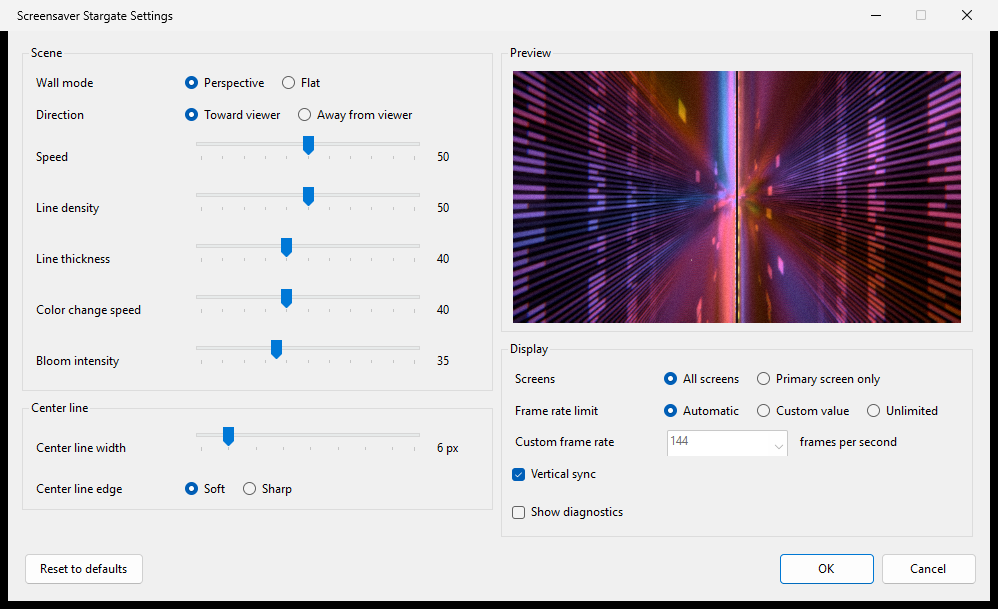
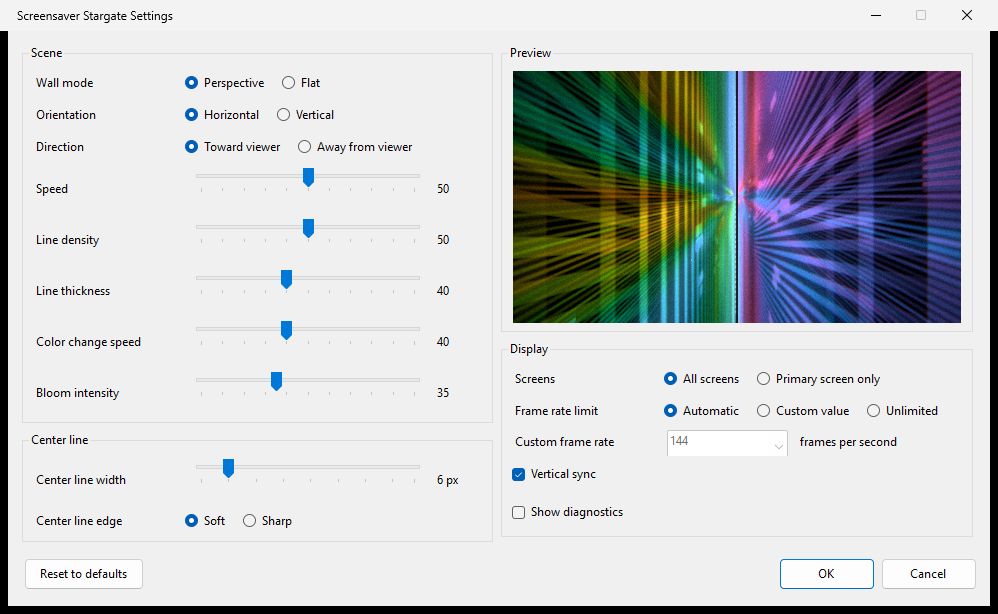
Add scroll orientation setting, film-accurate README images and memory results
Vertical orientation puts the walls above and below with a horizontal center line. README images are rendered at native size by the current version so the film grain is visible; adds a UI Automation check of settings persistence.

diff --git a/src/SettingsForm.cs b/src/SettingsForm.cs
@@ -17,6 +17,7 @@ internal sealed class SettingsForm : Form
 
     readonly RadioButton _perspective = Radio("Perspective"), _flat = Radio("Flat");
     readonly RadioButton _toward = Radio("Toward viewer"), _away = Radio("Away from viewer");
+    readonly RadioButton _horizontal = Radio("Horizontal"), _vertical = Radio("Vertical");
     readonly RadioButton _soft = Radio("Soft"), _sharp = Radio("Sharp");
     readonly RadioButton _allScreens = Radio("All screens"), _primaryOnly = Radio("Primary screen only");
     readonly RadioButton _fpsAuto = Radio("Automatic"), _fpsCustom = Radio("Custom value"), _fpsUnlimited = Radio("Unlimited");
@@ -87,6 +88,7 @@ internal sealed class SettingsForm : Form
     {
         var grid = Grid();
         AddChoice(grid, "Wall mode", _perspective, _flat);
+        AddChoice(grid, "Orientation", _horizontal, _vertical);
         AddChoice(grid, "Direction", _toward, _away);
         (_speed, _speedValue) = AddSlider(grid, "Speed", 0, 100);
         (_density, _densityValue) = AddSlider(grid, "Line density", 0, 100);
@@ -95,8 +97,10 @@ internal sealed class SettingsForm : Form
         (_bloom, _bloomValue) = AddSlider(grid, "Bloom intensity", 0, 100);
         _tips.SetToolTip(_perspective, "Two walls of lines converging to a vanishing point at the center.");
         _tips.SetToolTip(_flat, "Parallel horizontal lines scrolling sideways, without perspective.");
-        _tips.SetToolTip(_toward, "Lines stream from the center toward the screen edges.");
-        _tips.SetToolTip(_away, "Lines stream from the screen edges toward the center.");
+        _tips.SetToolTip(_horizontal, "Walls on the left and right, light streaming sideways, vertical center line.");
+        _tips.SetToolTip(_vertical, "Walls above and below, light streaming up and down, horizontal center line.");
+        _tips.SetToolTip(_toward, "Light streams from the center line toward the screen edges.");
+        _tips.SetToolTip(_away, "Light streams from the screen edges toward the center line.");
         _tips.SetToolTip(_bloom, "Glow around the lines. 0 turns the glow off.");
         _tips.SetToolTip(_colorSpeed, "How fast the colors fade into new colors. 0 keeps the colors fixed along the lines.");
         return Group("Scene", grid);
@@ -408,6 +412,7 @@ internal sealed class SettingsForm : Form
         var s = _working;
         (s.WallMode == WallMode.Perspective ? _perspective : _flat).Checked = true;
         (s.Direction == ScrollDirection.TowardViewer ? _toward : _away).Checked = true;
+        (s.Orientation == ScrollOrientation.Horizontal ? _horizontal : _vertical).Checked = true;
         (s.CenterLineEdge == CenterLineEdge.Soft ? _soft : _sharp).Checked = true;
         (s.Screens == ScreenSelection.AllScreens ? _allScreens : _primaryOnly).Checked = true;
         (s.FrameRateLimit switch
@@ -442,6 +447,7 @@ internal sealed class SettingsForm : Form
         var s = _working;
         s.WallMode = _perspective.Checked ? WallMode.Perspective : WallMode.Flat;
         s.Direction = _toward.Checked ? ScrollDirection.TowardViewer : ScrollDirection.AwayFromViewer;
+        s.Orientation = _horizontal.Checked ? ScrollOrientation.Horizontal : ScrollOrientation.Vertical;
         s.CenterLineEdge = _soft.Checked ? CenterLineEdge.Soft : CenterLineEdge.Sharp;
         s.Screens = _allScreens.Checked ? ScreenSelection.AllScreens : ScreenSelection.PrimaryOnly;
         s.FrameRateLimit = _fpsCustom.Checked ? FrameRateLimit.Custom : _fpsUnlimited.Checked ? FrameRateLimit.Unlimited : FrameRateLimit.Automatic;

diff --git a/src/SceneRenderer.cs b/src/SceneRenderer.cs
@@ -8,6 +8,7 @@ internal struct FrameParams
 {
     public int Width, Height;
     public WallMode Mode;
+    public bool Vertical;
     public float Scroll, ColorPhase;
     /// <summary>Seconds of simulated time, wrapped, for grain, gate weave and flicker.</summary>
     public float Time;
@@ -26,6 +27,7 @@ internal struct FrameParams
             Width = width,
             Height = height,
             Mode = s.WallMode,
+            Vertical = s.Orientation == ScrollOrientation.Vertical,
             Seed = seed,
             Density = s.WallMode == WallMode.Perspective ? 6f + 34f * density : 5f + 35f * density,
             Thickness = 0.08f + 0.77f * (s.LineThickness / 100f),
@@ -63,10 +65,10 @@ internal sealed class SceneRenderer : IDisposable
     int _outTex, _outFbo, _outW, _outH;
 
     // Uniform locations.
-    readonly int _sRes, _sMode, _sScroll, _sColor, _sDensity, _sThickness, _sSeed;
+    readonly int _sRes, _sVertical, _sMode, _sScroll, _sColor, _sDensity, _sThickness, _sSeed;
     readonly int _dSrc, _dHalf, _dPrefilter, _dThreshold;
     readonly int _uSrc, _uAdd, _uHalf, _uSpread;
-    readonly int _cScene, _cBloom, _cFont, _cRes, _cBloomStrength, _cLineHalf, _cLineSoft, _cDiag, _cTextScale, _cText, _cTime, _cFilmScale;
+    readonly int _cScene, _cBloom, _cFont, _cRes, _cBloomStrength, _cLineHalf, _cLineSoft, _cDiag, _cTextScale, _cText, _cTime, _cFilmScale, _cVertical;
 
     public SceneRenderer()
     {
@@ -78,6 +80,7 @@ internal sealed class SceneRenderer : IDisposable
 
         _sRes = GL.GetUniformLocation(_sceneProg, "uRes");
         _sMode = GL.GetUniformLocation(_sceneProg, "uMode");
+        _sVertical = GL.GetUniformLocation(_sceneProg, "uVertical");
         _sScroll = GL.GetUniformLocation(_sceneProg, "uScroll");
         _sColor = GL.GetUniformLocation(_sceneProg, "uColorPhase");
         _sDensity = GL.GetUniformLocation(_sceneProg, "uDensity");
@@ -106,6 +109,7 @@ internal sealed class SceneRenderer : IDisposable
         _cText = GL.GetUniformLocation(_compProg, "uText");
         _cTime = GL.GetUniformLocation(_compProg, "uTime");
         _cFilmScale = GL.GetUniformLocation(_compProg, "uFilmScale");
+        _cVertical = GL.GetUniformLocation(_compProg, "uVertical");
 
         _vao = GL.GenVertexArray();
 
@@ -144,6 +148,7 @@ internal sealed class SceneRenderer : IDisposable
         GL.UseProgram(_sceneProg);
         GL.Uniform2(_sRes, (float)_width, (float)_height);
         GL.Uniform1(_sMode, p.Mode == WallMode.Perspective ? 0 : 1);
+        GL.Uniform1(_sVertical, p.Vertical ? 1 : 0);
         GL.Uniform1(_sScroll, p.Scroll);
         GL.Uniform1(_sColor, p.ColorPhase);
         GL.Uniform1(_sDensity, p.Density);
@@ -221,6 +226,7 @@ internal sealed class SceneRenderer : IDisposable
         GL.Uniform1(_cTextScale, (float)Math.Max(1, _height / 540));
         GL.Uniform1(_cTime, p.Time);
         GL.Uniform1(_cFilmScale, Math.Max(0.5f, _height / 1080f));
+        GL.Uniform1(_cVertical, p.Vertical ? 1 : 0);
         GL.DrawArrays(PrimitiveType.Triangles, 0, 3);
         GL.ActiveTexture(TextureUnit.Texture0);
     }

diff --git a/src/CommandLine.cs b/src/CommandLine.cs
@@ -4,7 +4,7 @@ internal enum LaunchAction { Configure, Screensaver, Preview, Windowed }
 
 /// <summary>
 /// Parses the Windows screensaver protocol (/s, /c[:hwnd], /p hwnd) and the
-/// development options (--windowed, --size, --screenshot, --seed, --diag, --mode, --ui-scale).
+/// development options (--windowed, --size, --screenshot, --seed, --diag, --mode, --orientation, --ui-scale).
 /// </summary>
 internal sealed class CommandLine
 {
@@ -15,6 +15,7 @@ internal sealed class CommandLine
     public uint? Seed;
     public bool Diagnostics;
     public WallMode? Mode;
+    public ScrollOrientation? Orientation;
     public int UiScalePercent = 100;
 
     public const string Usage =
@@ -29,6 +30,7 @@ internal sealed class CommandLine
         "  --seed n           Fixed random seed for a reproducible scene.\n" +
         "  --diag             Show the diagnostics overlay.\n" +
         "  --mode perspective|flat  Override the wall mode for this run.\n" +
+        "  --orientation horizontal|vertical  Override the scroll orientation for this run.\n" +
         "  --ui-scale percent Emulate a display scale for the settings window (100, 125, 150).";
 
     public static CommandLine Parse(string[] args)
@@ -68,6 +70,15 @@ internal sealed class CommandLine
                             "perspective" => WallMode.Perspective,
                             "flat" => WallMode.Flat,
                             _ => throw new ArgumentException($"--mode expects perspective or flat, got \"{mode}\"."),
+                        };
+                        break;
+                    case "--orientation":
+                        string orientation = Next(args, ref i, arg).ToLowerInvariant();
+                        cl.Orientation = orientation switch
+                        {
+                            "horizontal" => ScrollOrientation.Horizontal,
+                            "vertical" => ScrollOrientation.Vertical,
+                            _ => throw new ArgumentException($"--orientation expects horizontal or vertical, got \"{orientation}\"."),
                         };
                         break;
                     case "--ui-scale":

diff --git a/src/Settings.cs b/src/Settings.cs
@@ -6,6 +6,7 @@ namespace ScreensaverStargate;
 public enum WallMode { Perspective, Flat }
 public enum CenterLineEdge { Soft, Sharp }
 public enum ScrollDirection { TowardViewer, AwayFromViewer }
+public enum ScrollOrientation { Horizontal, Vertical }
 public enum ScreenSelection { AllScreens, PrimaryOnly }
 public enum FrameRateLimit { Automatic, Custom, Unlimited }
 
@@ -29,6 +30,8 @@ public sealed class Settings
     public int CenterLineWidth { get; set; } = 6;
     public CenterLineEdge CenterLineEdge { get; set; } = CenterLineEdge.Soft;
     public ScrollDirection Direction { get; set; } = ScrollDirection.TowardViewer;
+    /// <summary>Horizontal: walls left and right, vertical center line. Vertical: walls above and below.</summary>
+    public ScrollOrientation Orientation { get; set; } = ScrollOrientation.Horizontal;
     public ScreenSelection Screens { get; set; } = ScreenSelection.AllScreens;
     public FrameRateLimit FrameRateLimit { get; set; } = FrameRateLimit.Automatic;
     public int CustomFrameRate { get; set; } = 144;
@@ -99,6 +102,7 @@ public sealed class Settings
         if (!Enum.IsDefined(WallMode)) WallMode = WallMode.Perspective;
         if (!Enum.IsDefined(CenterLineEdge)) CenterLineEdge = CenterLineEdge.Soft;
         if (!Enum.IsDefined(Direction)) Direction = ScrollDirection.TowardViewer;
+        if (!Enum.IsDefined(Orientation)) Orientation = ScrollOrientation.Horizontal;
         if (!Enum.IsDefined(Screens)) Screens = ScreenSelection.AllScreens;
         if (!Enum.IsDefined(FrameRateLimit)) FrameRateLimit = FrameRateLimit.Automatic;
     }

diff --git a/src/Program.cs b/src/Program.cs
@@ -26,6 +26,8 @@ internal static class Program
         var settings = Settings.Load();
         if (cl.Mode.HasValue)
             settings.WallMode = cl.Mode.Value;
+        if (cl.Orientation.HasValue)
+            settings.Orientation = cl.Orientation.Value;
         uint seed = cl.Seed ?? (uint)(Environment.TickCount64 ^ ((long)Environment.ProcessId << 16));
 
         return cl.Action switch

diff --git a/README.md b/README.md
@@ -1,8 +1,16 @@
 # Screensaver Stargate
 
-A native Windows screensaver inspired by the Star Gate sequence at the end of *2001: A Space Odyssey*: two walls of neon light streaming out of a bright seam in the middle of the screen, split by a thin black vertical line. Everything is drawn in real time by OpenGL shaders, with a film treatment (grain, gate weave, halation, softness) so the picture feels like projected film rather than clean vector graphics.
+A native Windows screensaver inspired by the Star Gate sequence at the end of *2001: A Space Odyssey*: two walls of neon light streaming out of a bright seam in the middle of the screen, split by a thin black line. The walls stand left and right (horizontal scrolling, vertical center line) or above and below (vertical scrolling, horizontal center line). Everything is drawn in real time by OpenGL shaders, with a film treatment (grain, gate weave, halation, softness, dust) so the picture feels like projected film rather than clean vector graphics.
 
-![Perspective mode, 3440 x 1440](docs/screenshots/perspective-3440x1440.jpg)
+![Perspective mode, horizontal orientation, rendered at 1920 x 1080 by the current version](docs/screenshots/hero-perspective-1920x1080.jpg)
+
+Detail at 100% (one image pixel per screen pixel), showing the film grain, the softness, the red halation and the slightly irregular lines:
+
+![Film treatment detail at 1:1](docs/screenshots/detail-film-1x.png)
+
+Vertical orientation, walls above and below:
+
+![Perspective mode, vertical orientation](docs/screenshots/hero-perspective-vertical-1920x1080.jpg)
 
 ## Requirements
 
@@ -36,7 +44,8 @@ Open them from the Windows screen saver dialog (**Settings...**), by right-click
 | Setting | Effect |
 | --- | --- |
 | Wall mode | **Perspective**: two walls converging to a vanishing point. **Flat**: the same walls seen straight on, scrolling sideways. |
-| Direction | **Toward viewer**: light streams from the center to the edges. **Away from viewer**: the reverse. |
+| Orientation | **Horizontal**: walls on the left and right, light streaming sideways, vertical center line. **Vertical**: walls above and below, light streaming up and down, horizontal center line. |
+| Direction | **Toward viewer**: light streams from the center line to the edges. **Away from viewer**: the reverse. |
 | Speed | Scroll speed, 0 to 100. |
 | Line density | Number of lines on each wall. |
 | Line thickness | Width of the lines relative to their spacing. |
@@ -75,18 +84,20 @@ These are not part of the Windows protocol.
 | `--seed n` | Fixed random seed, for reproducible pictures. |
 | `--diag` | Diagnostics overlay (also available as a setting). In full screen the overlay cannot be captured by screen capture tools (the window is presented directly), so the last values are also written to `log.txt` when the screensaver closes. |
 | `--mode perspective\|flat` | Overrides the wall mode for this run. |
+| `--orientation horizontal\|vertical` | Overrides the scroll orientation for this run. |
 | `--ui-scale 125` | Emulates a display scale for the settings window (fonts and layout), to check 125% and 150% on a 100% screen. |
 
 Starting a `.scr` through the Windows shell always runs `/S`, so the test scripts use `publish\ScreensaverStargate.exe`, which is the same binary.
 
 Scripts in `tools\`:
 
-- `capture-scenes.ps1`: screenshots of both modes at 1920x1080, 2560x1440, 2560x1080 and 3440x1440.
-- `measure-center-line.ps1`: measures the center line position and width in screenshots, to sub-pixel precision.
+- `capture-scenes.ps1`: screenshots of both modes at 1920x1080, 2560x1440, 2560x1080 and 3440x1440 (`-Orientation vertical` for the other orientation).
+- `measure-center-line.ps1`: measures the center line position and width in screenshots, to sub-pixel precision (`-Horizontal` for the vertical orientation).
 - `capture-window.ps1`: captures the program's own window (never the rest of the desktop).
 - `test-screensaver.ps1`: `/s` checks (single instance, key, click, mouse threshold). Covers the screen for a few seconds per step.
 - `test-preview.ps1`: `/p` check with a test parent window.
 - `test-settings.ps1`: damaged settings file, invalid values and frame rate options. Backs up and restores `settings.json`.
+- `test-settings-ui.ps1`: drives the settings window with UI Automation (selects options, checks that the preview changes, OK, reopens, checks that they were saved and loaded).
 - `memory-test.ps1`: long run with memory samples every minute.
 
 ## How it works
@@ -95,6 +106,7 @@ Scripts in `tools\`:
 - **Bloom**: bright pass and dual Kawase blur over up to six half-resolution levels (R11G11B10 float), added back with a warm halation component.
 - **Film treatment**: gate weave (about one pixel of drift), slight lens softness and chromatic aberration, lamp flicker, luminance grain and occasional dust specks, all changing at 24 film frames per second and sized relative to the screen height.
 - **Center line**: drawn last, over the walls, the glow and the film effects, from the exact window center, with width proportional to the height.
+- **Orientation**: the vertical orientation swaps the two screen axes in the scene shader and draws the center line horizontally; everything else is shared.
 - **Aspect ratio**: all coordinates are normalized by the window height, so a 21:9 screen shows a wider field (more of each wall) instead of a stretched picture.
 - **Timing**: motion comes from a fixed 240 Hz simulation step fed with the measured frame time (capped at 250 ms), and the renderer interpolates between the last two steps. Nothing depends on a frame count or an assumed refresh rate. Display pacing comes from vertical sync, or from a high resolution waitable timer when a frame rate cap applies. With vertical sync on, a safety cap at 1.25 times the refresh rate stops the loop from spinning if the driver stops blocking (for example while the displays sleep); it never engages while vertical sync works.
 - **Threads**: every window has its own render thread and WGL context, so each screen follows its own vertical sync. The UI thread only handles input and window messages.
@@ -108,14 +120,29 @@ Measured on this development machine: Windows 11, one 3440x1440 screen at 360 Hz
 - **Frame times** (diagnostics mode): full screen 3440x1440 at 360 Hz with vertical sync, average 2.80 ms, worst 1% 2.95 ms. Frame rate caps: custom 144 gives 6.94 ms, custom 60 gives 16.67 ms. With vertical sync off and Unlimited, the driver confirms swap interval 0 but frames stay paced at 360 Hz on this machine, which points to the Windows compositor or a driver setting (for example forced vertical sync or a frame limiter in the NVIDIA control panel) rather than the program.
 - **CPU**: one render thread uses about 41% of one core at 360 FPS (the driver waits actively on each swap), 24% at 144 FPS and 6% at 60 FPS. Use a custom frame rate to save power.
 - **Memory**: see the table below.
-- **Screenshots**: both modes at 1920x1080, 2560x1440, 2560x1080 and 3440x1440 are in `docs\screenshots`. Center line measured with `measure-center-line.ps1`: centered within 0.15 pixel at every size, width 6.3 px at 1080 and 8.3 px at 1440 for a 6 px setting (the target is 6 and 8; the small excess comes from the soft edge and the glow gradient).
+- **Screenshots**: both modes and both orientations at 1920x1080, 2560x1440, 2560x1080 and 3440x1440 are in `docs\screenshots`. Center line measured with `measure-center-line.ps1`: in the horizontal orientation, centered within 0.15 pixel at every size, width 6.3 px at 1080 and 8.3 px at 1440 for a 6 px setting (targets 6 and 8; the small excess comes from the soft edge and the glow gradient), Sharp edge within 0.12 pixel. In the vertical orientation, flat mode is centered within 0.26 pixel with the same widths; in perspective the measurement reads 0.4 to 0.6 pixel off, which is the bias of the method on the steep and asymmetric glow of the horizon (the line itself is computed at exactly half the height).
 - **Settings window**: checked at 100%, 125% and 150% with `--ui-scale` (no truncation or overlap). The real Windows scaling was not changed during development; please confirm on a screen set to 125% or 150%.
 - **Protocol**: `/s` (single instance, key, click, mouse threshold with a 3 px move ignored), `/p` in a test parent window (child created, exits when the parent closes), `/c` and no argument.
+- **Settings persistence**: `test-settings-ui.ps1` selects Flat and Vertical, sees the preview change, clicks OK, and finds both saved in `settings.json` and selected again when the window reopens.
 - **Not verified here**: several physical screens (only one was available; the code creates one window, seed, context and render thread per screen), a real 125% or 150% Windows scale, and an integrated GPU at 3440x1440.
 
 ### Memory over 30 minutes
 
-MEMORY_TABLE
+`tools\memory-test.ps1`, scene in a 1920x1080 window with diagnostics at 360 FPS (vertical sync), sampled every minute. Private bytes, working set, handles and threads of the process; the managed allocation figures come from the diagnostics log line written every minute.
+
+| Minute | Private (MB) | Working set (MB) | Handles | Threads |
+| --- | --- | --- | --- | --- |
+| 0 | 173.9 | 169.1 | 478 | 19 |
+| 3 | 151.0 | 166.4 | 472 | 12 |
+| 5 | 151.8 | 166.7 | 472 | 13 |
+| 10 | 152.5 | 167.4 | 472 | 13 |
+| 15 | 151.6 | 167.1 | 468 | 13 |
+| 20 | 151.9 | 167.2 | 468 | 12 |
+| 25 | 151.1 | 166.5 | 468 | 12 |
+| 29 | 151.6 | 166.8 | 468 | 12 |
+| 30 | 155.2 | 170.7 | 468 | 12 |
+
+After the start-up settles (minute 3), private memory stays between 150.7 and 155.2 MB with no upward trend, and handle and thread counts stay flat. The managed heap went from 1011 KB to 1190 KB in 29 minutes, which is the once-a-minute memory log itself (about 6 KB per minute), with zero garbage collections: nothing is allocated per frame over roughly 600,000 frames. This 30-minute run used the build just before the Orientation setting was added; a second 15-minute run of the final code (1600x900 window) showed the same pattern (private 100.8 to 103.3 MB, managed heap 1073 KB to 1160 KB, zero collections).
 
 ## Project structure
 
